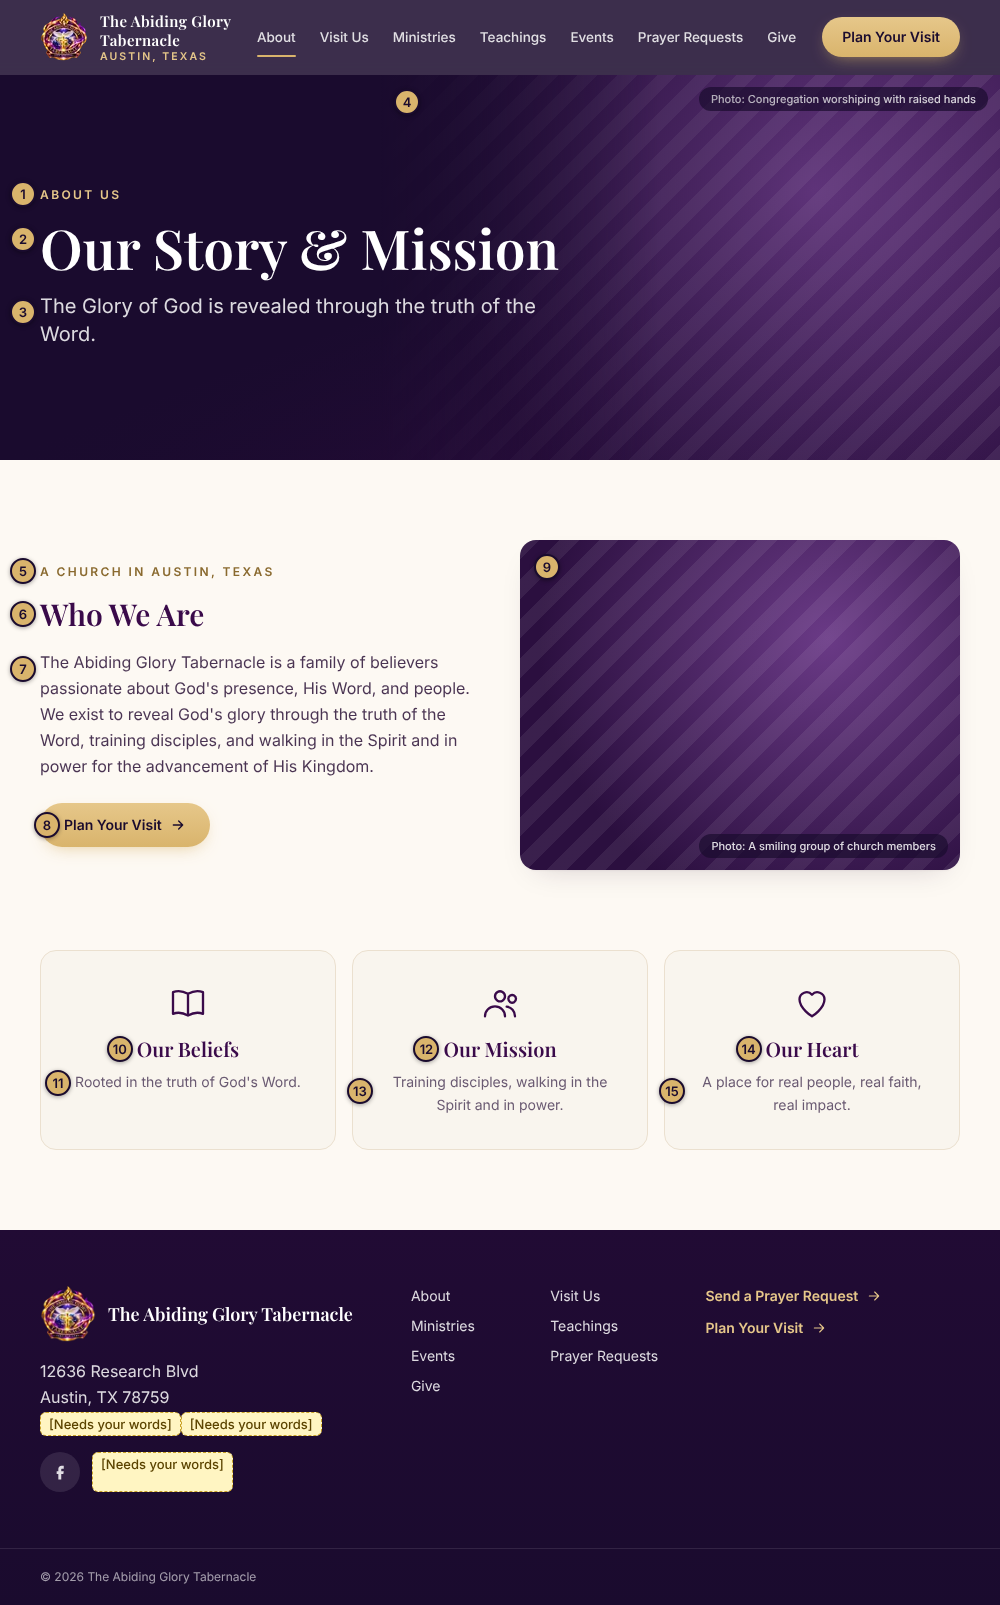
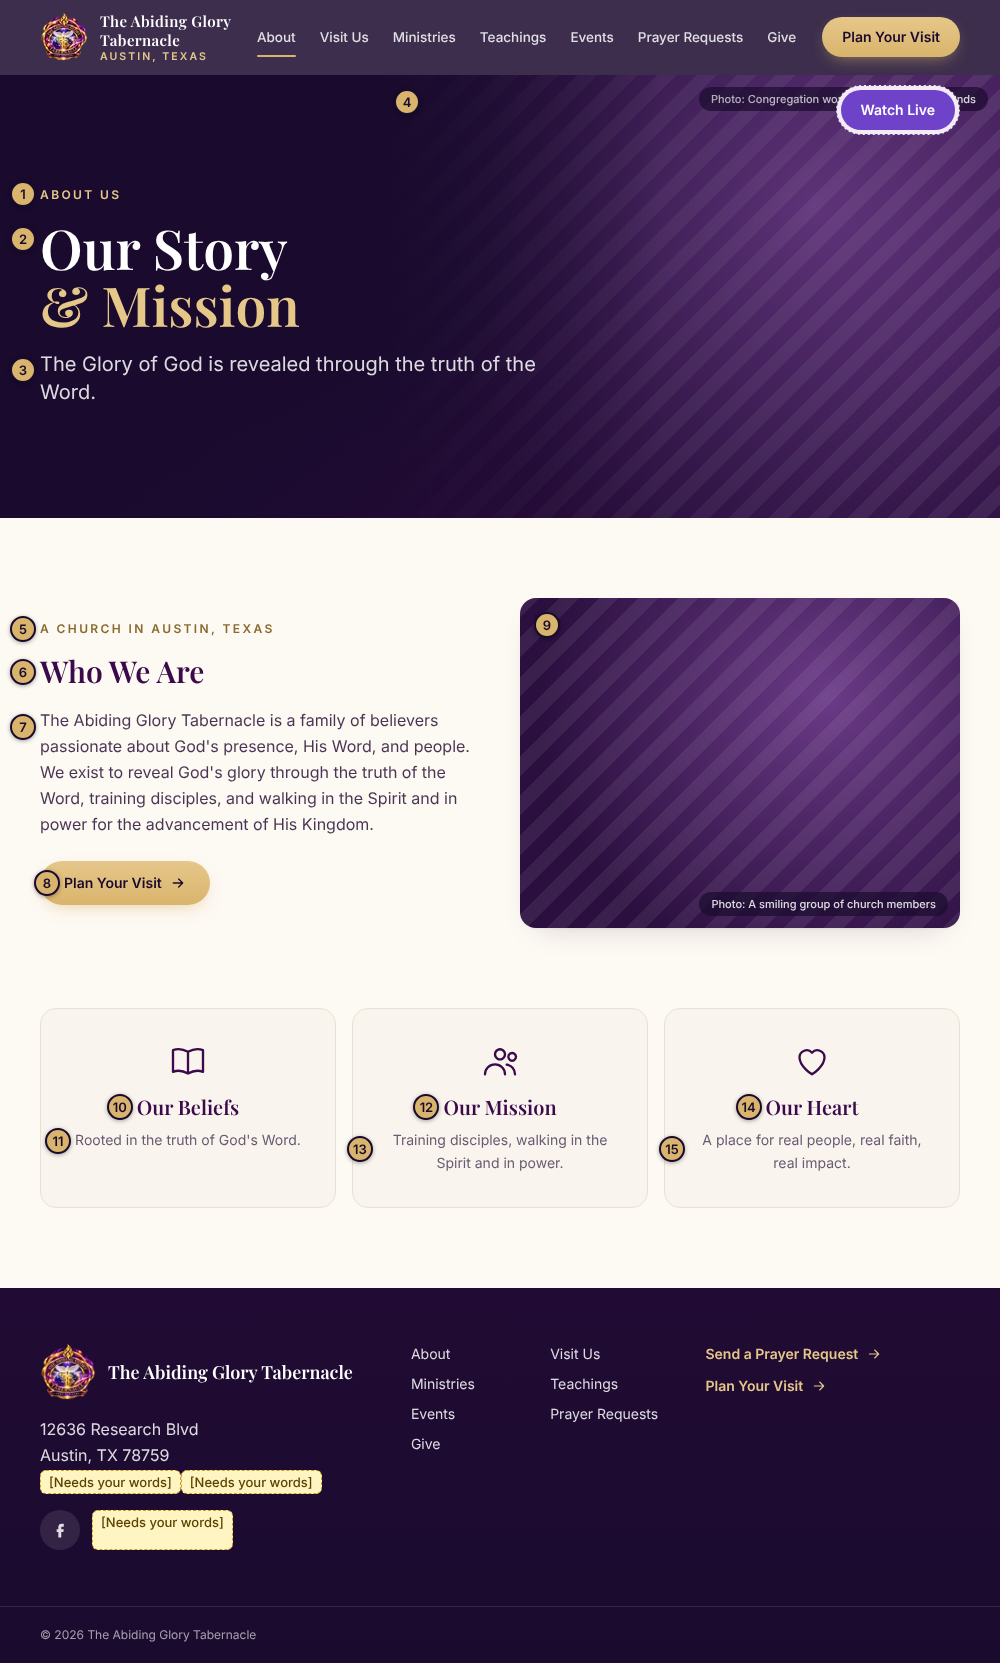
Match page headers to the mockup and update the content sheet
- Visit, Ministries and Give headers use the mockup wording; gold accent words
  and line breaks on About, Ministries, Events and Give headlines
- New sheet rows: Visit #22 subtitle, Give #16/#17 hero buttons,
  Every page #32 Teachings 'Watch Live' header button (purple, per mockup)
- Sheet pictures: menu numbers sit above the words; alternate header button floats below

Claude-Session: https://claude.ai/code/session_01DLQR43XDxpTVRNbEdaKZ68

diff --git a/src/components/Headline.tsx b/src/components/Headline.tsx
@@ -1,0 +1,47 @@
+import { Fragment, type ElementType } from "react";
+import { T } from "./Sheet";
+import type { PageSlug } from "@/lib/content";
+
+/**
+ * Headline styling from the mockup: one phrase in gold, and a line break on wider screens.
+ * Matching is by phrase, so if the team rewrites a headline and the phrase is gone,
+ * the headline simply shows in white.
+ */
+const STYLE: Record<string, { gold?: string; breakBefore?: string }> = {
+  "2-about:2": { gold: "& Mission", breakBefore: "& Mission" },
+  "4-ministries:2": { gold: "Real Faith.", breakBefore: "Real Faith." },
+  "6-events:2": { gold: "TAGT", breakBefore: "at TAGT" },
+  "8-give:2": { gold: "with Purpose", breakBefore: "with Purpose" },
+};
+
+function render(words: string, gold?: string, breakBefore?: string) {
+  const parts: React.ReactNode[] = [];
+  let rest = words;
+  if (breakBefore && rest.includes(breakBefore)) {
+    const i = rest.indexOf(breakBefore);
+    parts.push(...withGold(rest.slice(0, i), gold, "a"));
+    parts.push(<br key="br" className="hidden md:block" />);
+    rest = rest.slice(i);
+  }
+  parts.push(...withGold(rest, gold, "b"));
+  return parts;
+}
+
+function withGold(s: string, gold: string | undefined, k: string) {
+  if (!gold || !s.includes(gold)) return [<Fragment key={k}>{s}</Fragment>];
+  const i = s.indexOf(gold);
+  return [
+    <Fragment key={k + 1}>{s.slice(0, i)}</Fragment>,
+    <span key={k + 2} className="text-gold-light">{gold}</span>,
+    <Fragment key={k + 3}>{s.slice(i + gold.length)}</Fragment>,
+  ];
+}
+
+export function Headline({ page, n, as = "h1", className = "h-display" }: { page: PageSlug; n: number; as?: ElementType; className?: string }) {
+  const style = STYLE[`${page}:${n}`] ?? {};
+  return (
+    <T page={page} n={n} as={as} className={className}>
+      {(w) => render(w, style.gold, style.breakBefore)}
+    </T>
+  );
+}

diff --git a/src/app/give/page.tsx b/src/app/give/page.tsx
@@ -2,6 +2,7 @@ import type { Metadata } from "next";
 import Link from "next/link";
 import { T } from "@/components/Sheet";
 import { Hero, Eyebrow } from "@/components/Hero";
+import { Headline } from "@/components/Headline";
 import { ButtonLink } from "@/components/Button";
 import { Icon, type IconName } from "@/components/Icons";
 import { isMissing, text } from "@/lib/content";
@@ -25,19 +26,20 @@ export default function Give() {
         <Eyebrow light>
           <T page={P} n={1} />
         </Eyebrow>
-        <T page={P} n={2} as="h1" className="h-display" />
+        <Headline page={P} n={2} />
         <T page={P} n={3} as="p" className="max-w-[50ch] text-lg text-white/85" />
         <T page={P} n={4} as="p" className="max-w-[50ch] text-white/75" />
         <div className="mt-2 flex flex-wrap gap-3">
-          {site.giveUrl ? (
-            <ButtonLink href={site.giveUrl} external>
-              {text(P, 7)}
-            </ButtonLink>
-          ) : null}
+          <ButtonLink href={site.giveUrl || "#ways"} external={!!site.giveUrl}>
+            <T page={P} n={16} />
+          </ButtonLink>
+          <ButtonLink href="#ways" variant="outline-light">
+            <T page={P} n={17} />
+          </ButtonLink>
         </div>
       </Hero>
 
-      <section className="mx-auto grid max-w-site gap-10 px-gutter py-14 md:grid-cols-[1.25fr_1fr]">
+      <section id="ways" className="mx-auto grid max-w-site scroll-mt-24 gap-10 px-gutter py-14 md:grid-cols-[1.25fr_1fr]">
         <div className="flex min-w-0 flex-col gap-4">
           <T page={P} n={6} as="h2" className="h-section" />
           <ul className="flex flex-col gap-3">

diff --git a/src/components/Header.tsx b/src/components/Header.tsx
@@ -4,6 +4,7 @@ import { T } from "./Sheet";
 import { MobileMenu } from "./MobileMenu";
 import { NavLink } from "./NavLink";
 import { ButtonLink } from "./Button";
+import { HeaderCta } from "./HeaderCta";
 import { NAV } from "@/lib/nav";
 import { text } from "@/lib/content";
 
@@ -30,9 +31,18 @@ export function Header() {
         </nav>
 
         <div className="flex items-center gap-2">
-          <ButtonLink href="/visit" arrow={false} className="hidden whitespace-nowrap !px-5 !py-2.5 sm:inline-flex">
-            <T page={P} n={10} />
-          </ButtonLink>
+          <HeaderCta
+            normal={
+              <ButtonLink href="/visit" arrow={false} className="whitespace-nowrap !px-5 !py-2.5">
+                <T page={P} n={10} />
+              </ButtonLink>
+            }
+            watch={
+              <ButtonLink href="/teachings#watch" variant="violet" arrow={false} className="whitespace-nowrap !px-5 !py-2.5">
+                <T page={P} n={32} />
+              </ButtonLink>
+            }
+          />
           <MobileMenu>
             <nav aria-label="Main" className="flex flex-col">
               {NAV.map((item) => (

diff --git a/src/components/Button.tsx b/src/components/Button.tsx
@@ -2,13 +2,14 @@ import Link from "next/link";
 import type { ReactNode } from "react";
 import { Icon } from "./Icons";
 
-type Variant = "gold" | "outline-light" | "outline" | "purple";
+type Variant = "gold" | "outline-light" | "outline" | "purple" | "violet";
 
 const styles: Record<Variant, string> = {
   gold: "bg-gradient-to-b from-gold-light to-gold text-purple-950 hover:brightness-105 shadow-[0_6px_18px_-8px_rgba(217,180,108,.8)]",
   "outline-light": "border border-white/70 text-white hover:bg-white/10",
   outline: "border border-purple-800/30 text-purple-800 hover:bg-purple-100",
   purple: "bg-purple-800 text-white hover:bg-purple-700",
+  violet: "bg-violet text-white hover:brightness-110",
 };
 
 export function buttonClass(variant: Variant = "gold", extra = "") {

diff --git a/src/components/HeaderCta.tsx b/src/components/HeaderCta.tsx
@@ -1,0 +1,19 @@
+"use client";
+
+import { usePathname } from "next/navigation";
+import type { ReactNode } from "react";
+
+/** The header button changes by page (mockup): "Watch Live" on Teachings, otherwise "Plan Your Visit". */
+export function HeaderCta({ normal, watch }: { normal: ReactNode; watch: ReactNode }) {
+  const onTeachings = usePathname().startsWith("/teachings");
+  return (
+    <>
+      <span className={onTeachings ? "header-alt hidden" : "hidden sm:inline-flex"} data-sheet-hidden={onTeachings ? "other-pages" : undefined}>
+        {normal}
+      </span>
+      <span className={onTeachings ? "hidden sm:inline-flex" : "header-alt hidden"} data-sheet-hidden={onTeachings ? undefined : "teachings-page"}>
+        {watch}
+      </span>
+    </>
+  );
+}

diff --git a/src/app/events/page.tsx b/src/app/events/page.tsx
@@ -1,6 +1,7 @@
 import type { Metadata } from "next";
 import { T } from "@/components/Sheet";
 import { Hero, Eyebrow } from "@/components/Hero";
+import { Headline } from "@/components/Headline";
 import { Calendar } from "@/components/Calendar";
 import { EventList } from "@/components/EventList";
 import { austinToday, occurrences, upcoming } from "@/lib/services";
@@ -26,7 +27,7 @@ export default function Events() {
         <Eyebrow light>
           <T page={P} n={1} />
         </Eyebrow>
-        <T page={P} n={2} as="h1" className="h-display" />
+        <Headline page={P} n={2} />
         <T page={P} n={3} as="p" className="max-w-[50ch] text-lg text-white/85" />
       </Hero>
 

diff --git a/src/app/about/page.tsx b/src/app/about/page.tsx
@@ -1,6 +1,7 @@
 import type { Metadata } from "next";
 import { T, Photo } from "@/components/Sheet";
 import { Hero, Eyebrow } from "@/components/Hero";
+import { Headline } from "@/components/Headline";
 import { ButtonLink } from "@/components/Button";
 import { IconCard } from "@/components/IconCard";
 import { text } from "@/lib/content";
@@ -15,7 +16,7 @@ export default function About() {
         <Eyebrow light>
           <T page={P} n={1} />
         </Eyebrow>
-        <T page={P} n={2} as="h1" className="h-display" />
+        <Headline page={P} n={2} />
         <T page={P} n={3} as="p" className="max-w-[40ch] text-xl text-white/85" />
       </Hero>
 

diff --git a/src/app/ministries/page.tsx b/src/app/ministries/page.tsx
@@ -1,6 +1,7 @@
 import type { Metadata } from "next";
 import { T, Photo } from "@/components/Sheet";
 import { Hero, Eyebrow } from "@/components/Hero";
+import { Headline } from "@/components/Headline";
 import { ButtonLink } from "@/components/Button";
 import { text } from "@/lib/content";
 
@@ -14,7 +15,7 @@ export default function Ministries() {
         <Eyebrow light>
           <T page={P} n={1} />
         </Eyebrow>
-        <T page={P} n={2} as="h1" className="h-display" />
+        <Headline page={P} n={2} />
         <T page={P} n={3} as="p" className="max-w-[56ch] text-lg text-white/85" />
       </Hero>
 

diff --git a/src/app/globals.css b/src/app/globals.css
@@ -56,3 +56,8 @@ html.sheet-mode [data-sheet-hidden] {
   background: #f3ecf6; color: #3A0A4A; border: 1px dashed #6A3A86; border-radius: 999px;
   padding: 4px 12px; font: 600 13px/1.4 Inter, sans-serif;
 }
+
+/* In sheet pictures, the other page's header button floats just under the header instead of crowding it. */
+html.sheet-mode .header-alt[data-sheet-hidden] {
+  position: absolute; right: clamp(16px, 4vw, 40px); top: calc(100% + 10px); margin: 0; padding: 4px; z-index: 50;
+}

diff --git a/src/app/visit/page.tsx b/src/app/visit/page.tsx
@@ -20,6 +20,7 @@ export default function Visit() {
           <T page={P} n={1} />
         </Eyebrow>
         <T page={P} n={2} as="h1" className="h-display" />
+        <T page={P} n={22} as="p" className="max-w-[44ch] text-xl text-white/85" />
       </Hero>
       <ServiceCards />
 

diff --git a/tailwind.config.ts b/tailwind.config.ts
@@ -25,6 +25,7 @@ const config: Config = {
           card: "#F9F5EE",
           line: "#EBE0CF",
         },
+        violet: "#6E43C9", // "Watch Live" header button (mockup)
         ink: "#2A1236",
         sub: "#6A5A72",
       },

diff --git a/docs/DECISIONS.md b/docs/DECISIONS.md
@@ -29,12 +29,21 @@ Recurring givers already have to re-enroll once (ShelbyNext → new system). If 
 - **App vs. website:** the pastors are reviewing the app preview. The website is built so the app can be added later without rework. The Member Login link stays hidden until they decide.
 - **Q3 (suite number)** is still open. The site uses the content sheet's address, without "Suite A-102".
 - **Q5 (header logo):** using the full badge at 48 px as a placeholder.
-- **Q6 (header button):** every page uses the sheet's single gold "Plan Your Visit" button (row 10), since the sheet has only one row for it.
+- **Q6 (header button):** matches the mockup. Gold "Plan Your Visit" on every page except Teachings, which shows a purple "Watch Live" button (new sheet row: Every page #32).
 - **Give Online:** links to `NEXT_PUBLIC_GIVE_URL`. Through Dec 31 that should be the ShelbyNext giving page. **We need that link.** Until it's set, the Give Online button is left off the Give page hero and the home page button goes to /give.
 - **Events:** the calendar and lists show the three weekly services from the "Every page" section. Admin-published events join them once the `events` table exists.
 - **Teachings:** shows the "not live" state and a placeholder until `YOUTUBE_CHANNEL_ID` is set.
 - **Words not in the content sheet yet** (add as rows in the next sheet update): Visit form field labels (Name, Email, Phone, How many are coming?, Anything we should know?), both thank-you pages, the 404 page, and the Teachings line "Messages appear here automatically once the church YouTube channel is connected."
 - **Photos:** every photo spot shows the purple striped placeholder with what belongs there, as the team sheet describes.
+
+## Content sheet changes (Nov 10, mockup headers)
+
+- Visit Us #1 "VISIT US" → "PLAN YOUR VISIT"; #2 → "You Belong Here."; new #22 "Come as you are — there's a place for you."
+- Ministries #2 → "Real People. Real Faith. Real Impact."; #3 → "Discover the many ways to grow, serve, and make a difference at The Abiding Glory Tabernacle."
+- Give #1 → "GIVE & CONNECT"; #2 → "Partner with Purpose"; #3 → "Your generosity helps advance the Kingdom and make a lasting impact."; new #16 "Give Online" and #17 "Other Ways to Give" (hero buttons)
+- Every page: new #32 "Watch Live" (Teachings header button)
+- Replaced wording that's no longer on those pages: "Planning Your First Visit?", "There's a Place for You Here", "From Sunday morning prayer to midweek Bible study, our ministries are where the Word is taught and lives are changed." The Give page's "Your giving helps us reach the lost for Jesus Christ…" still appears on the Home page giving section.
+- New rows were added at the end of each section. Existing numbers did not change.
 
 ## Decisions made (change any of these if you disagree)
 
@@ -43,7 +52,7 @@ Recurring givers already have to re-enroll once (ShelbyNext → new system). If 
 | D1 | Headline font **Playfair Display**, body **Inter**. A lint rule fails the build if "Syne" appears. | Closest free match to the mockup's serif. Inter stays readable at small sizes. |
 | D2 | Colors sampled from the mockup: hero purple `#1A0B2E`, footer `#210B34`, primary purple `#3A0A4A`, gold `#D9B46C` (buttons), cream page `#FDF9F3`, cream card `#F9F5EE`. Gold **text** on cream uses a darker `#8A6A2F`. | The button gold on cream fails WCAG AA for small text, so eyebrow labels on cream get the darker gold. On purple, the bright gold passes. |
 | D3 | Menu follows the content sheet (About, Visit Us, Ministries, Teachings, Events, Prayer Requests, Give). The logo links Home. Member Login is a small link in the header and footer. Collapses to a menu button below about 1180 px. | Seven items plus a button doesn't fit the mockup header at laptop widths. |
-| D4 | "Visit Us" page lives at `/visit`. Page headlines use content-sheet wording (e.g., "Planning Your First Visit?", "Partner With Us"), not the mockup's ("You Belong Here.", "Partner with Purpose"). | Sheet wins on wording. Flagging it here so the change from the mockup is visible. |
+| D4 | "Visit Us" page lives at `/visit`. **Page headers match the mockup** (Dani, Nov 10): "You Belong Here.", "Real People. Real Faith. Real Impact.", "Partner with Purpose", with the mockup's gold accent words. The content sheet was updated to the same wording. | Dani asked for the mockup headers on every page. |
 | D5 | Phone and email stay **[Needs your words]** until you give them. The mockup's `(512) 000-0000` and `info@tagtministry.org` are not used. | Don't invent contact info. |
 | D6 | Event placeholder "Time & Details TBA" isn't hardcoded. An event without a time shows "Time to be announced", which is editable. | Build prompt. |
 | D7 | Home isn't in the mockup. It's built from mockup components: hero, the three service cards on the hero edge, latest message, coming up, give strip. | Build prompt. |
